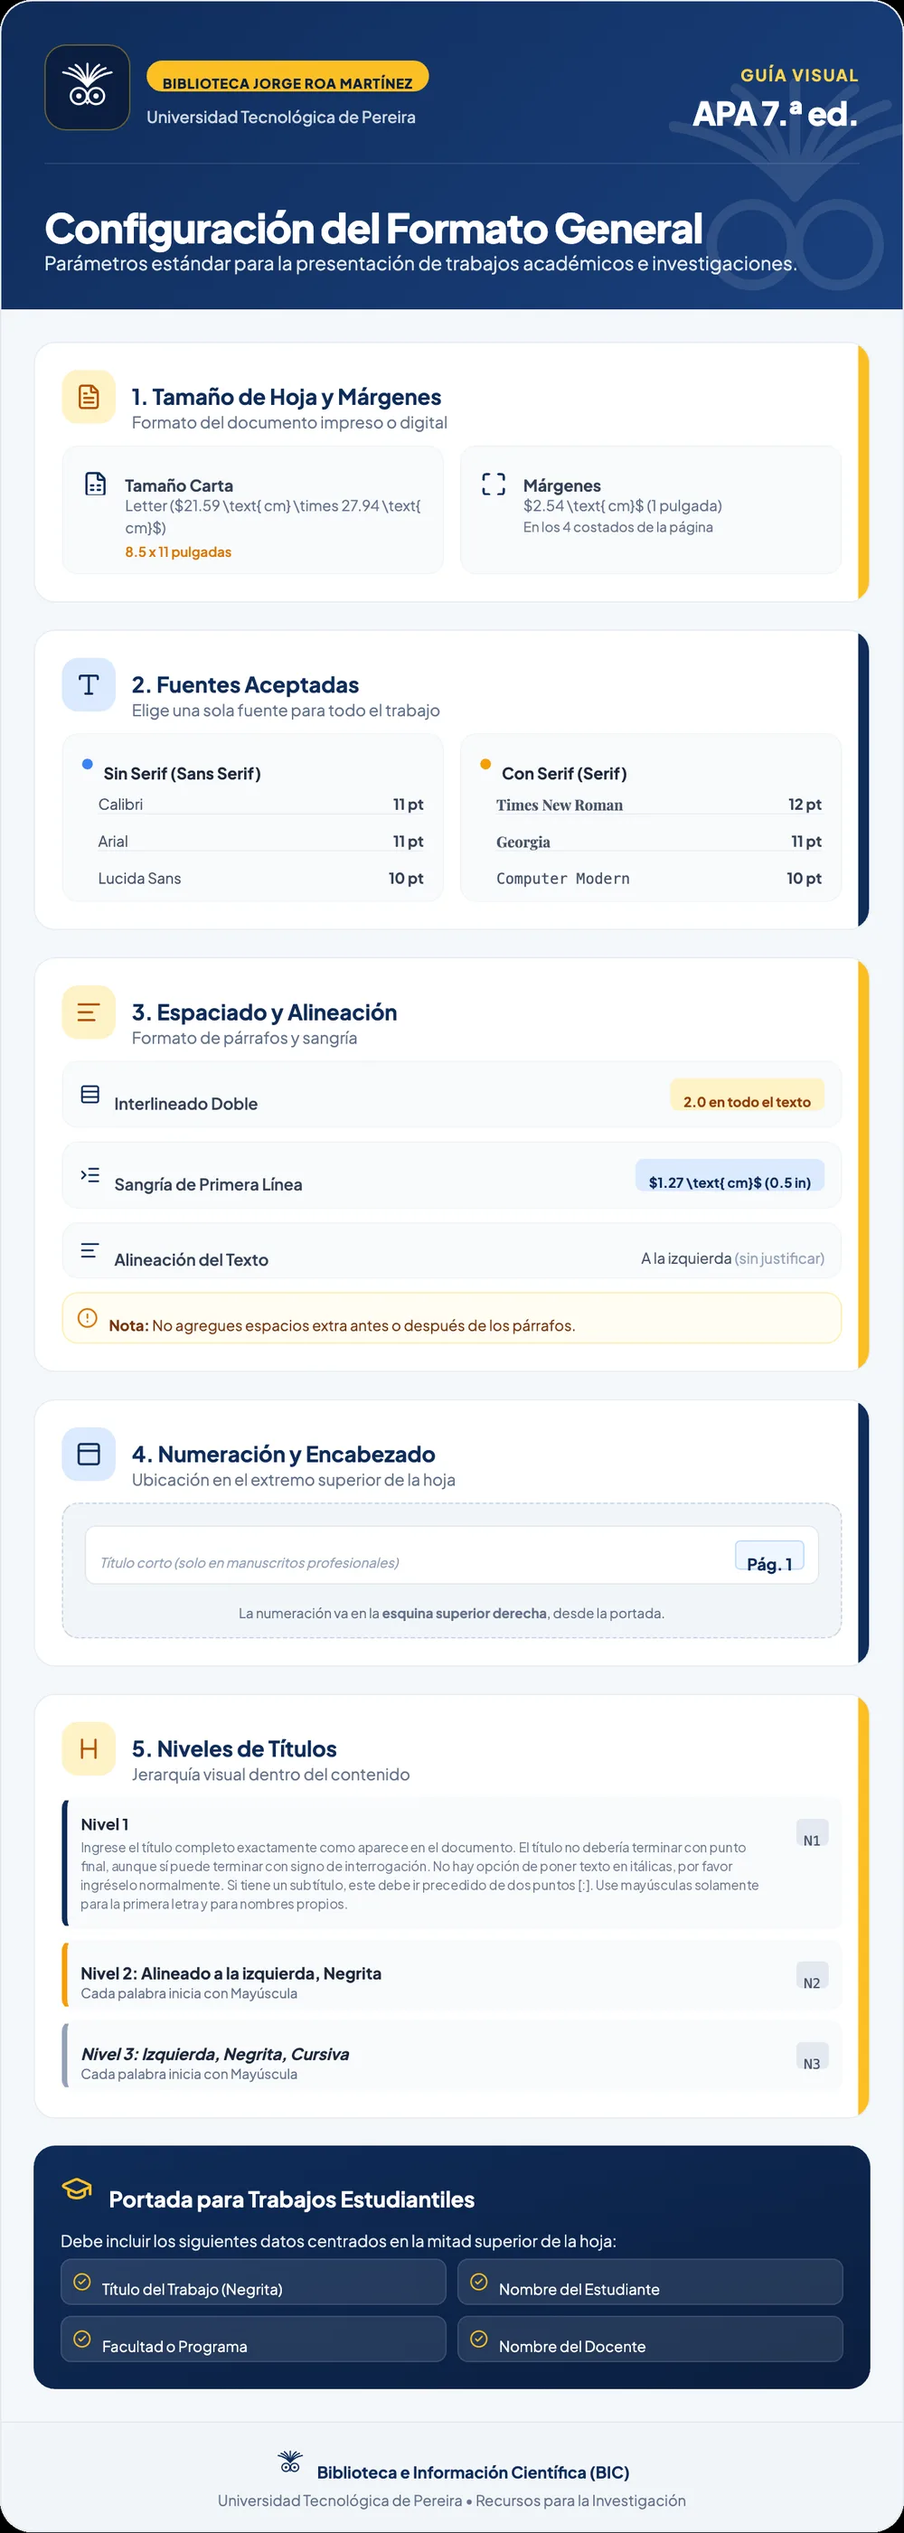
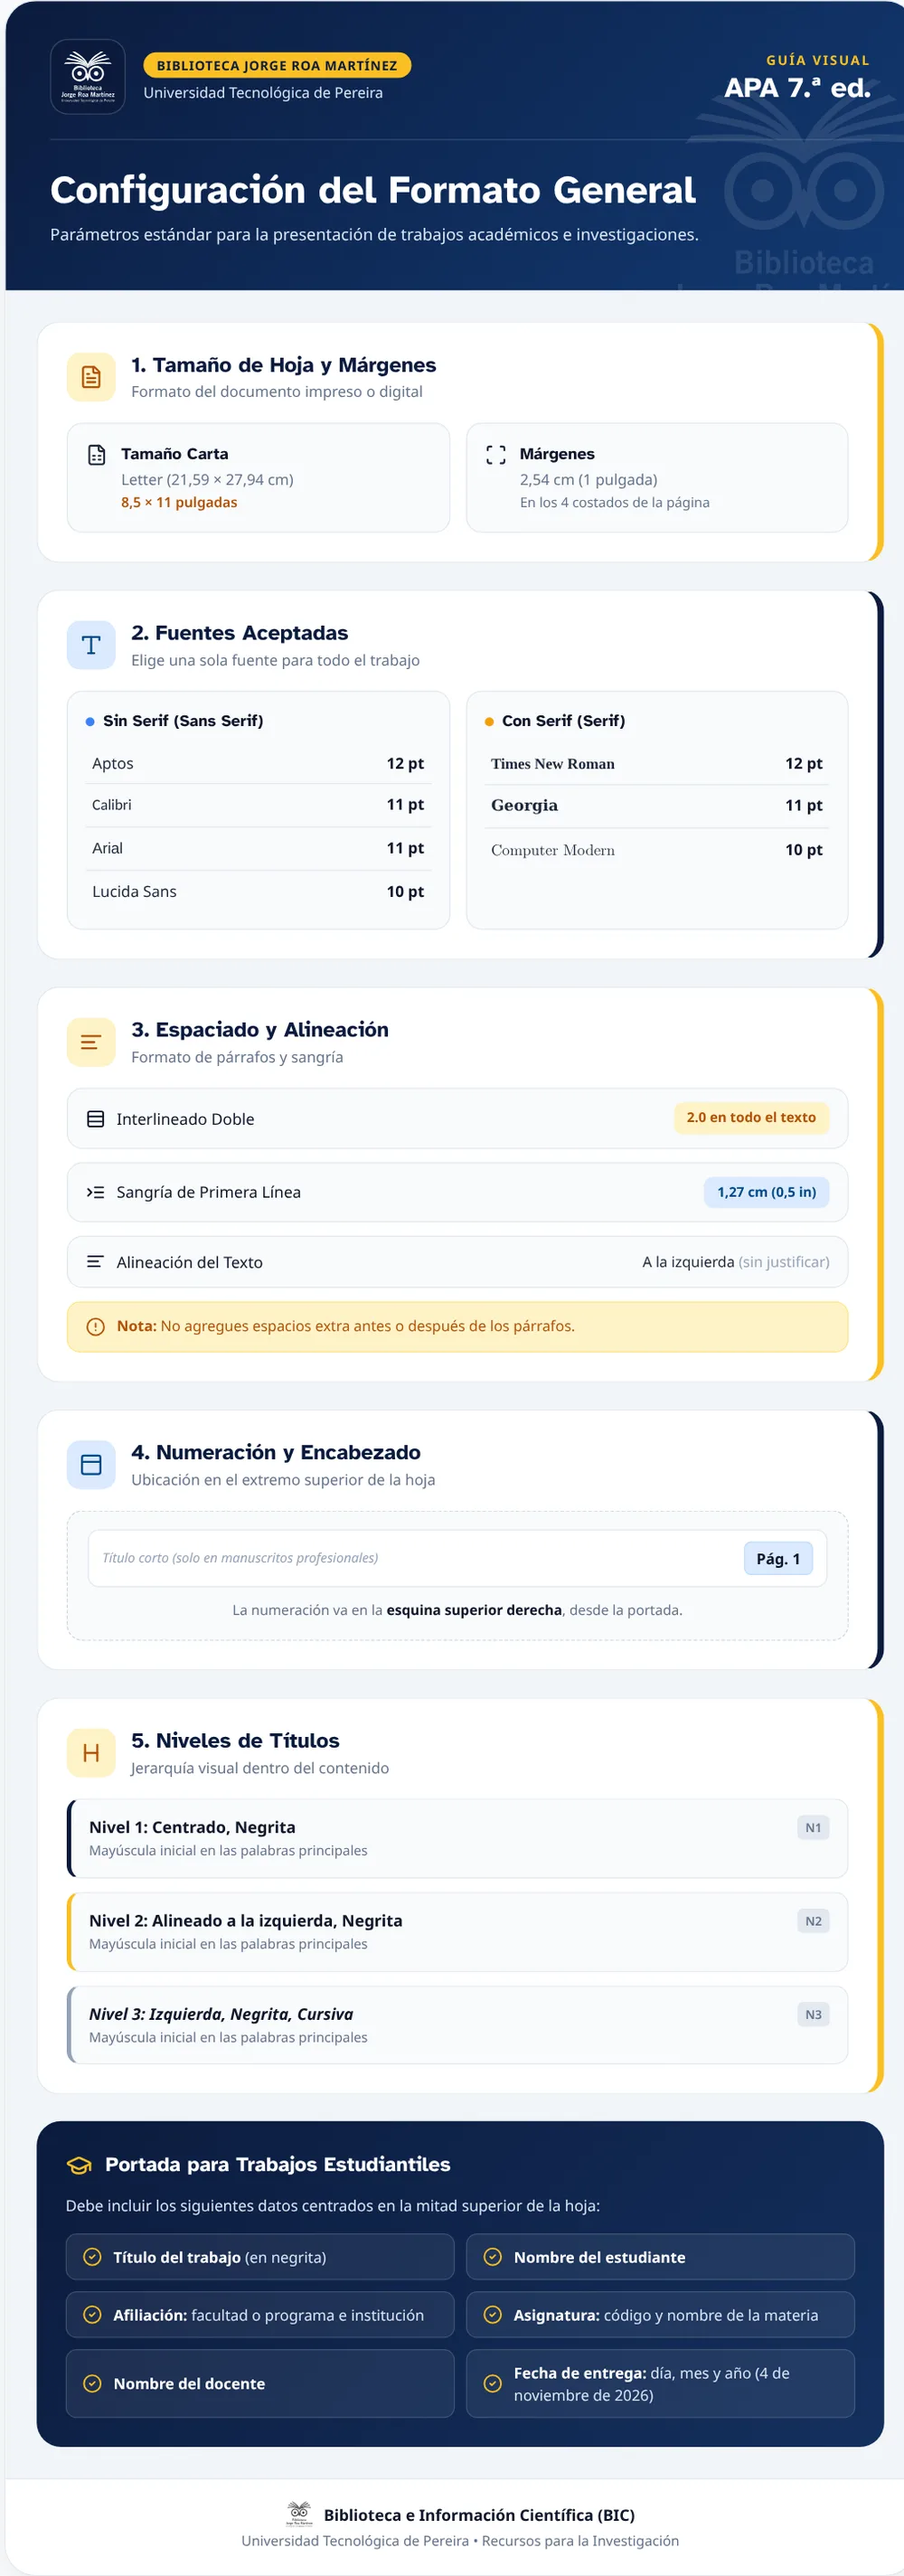
Colección APA: derrotero con infografías integradas e infografías alineadas con la guía
- Derrotero: Formato general y Tablas y figuras integradas en el bloque 1,
  Anatomía de las citas en el bloque 2, cada una con vista previa y
  «Ver completa»; portada con los seis elementos en el bloque 1.
- Formato general: portada con título, estudiante, afiliación, asignatura,
  docente y fecha de entrega; Aptos 12 pt entre las fuentes aceptadas;
  niveles de título con mayúscula inicial en las palabras principales.
- Tablas y figuras: títulos con mayúscula inicial en las palabras
  principales, regla de bordes y nota de derechos de autor como en la Guía
  de citas y referencias (cap. 3).

Claude-Session: https://claude.ai/code/session_01672zvz8tvadQGwHPtvfAYC

diff --git a/biblioteca-utp/coleccion-apa/derrotero/app.js b/biblioteca-utp/coleccion-apa/derrotero/app.js
@@ -9,7 +9,6 @@ function pintar(raiz){
   raiz.querySelectorAll("[data-fg]").forEach(el=>{el.style.color=el.dataset.fg});
   raiz.querySelectorAll("[data-flex]").forEach(el=>{el.style.flex=el.dataset.flex});
 }
-
 const MAT={
   info:{n:"Infografía Configuración del Formato General",c:"var(--m-info)"},
   anat:{n:"Infografía Anatomía de las citas",c:"var(--m-plant)"},
@@ -20,14 +19,14 @@ const MAT={
   tab:{n:"Infografía Tablas y figuras",c:"var(--m-none)"}
 };
 const B=[
- {t:"Formato del documento",short:"Formato",d:{120:15,90:10},main:"info",sup:["guia","tab"],img:true,
+ {t:"Formato del documento",short:"Formato",d:{120:15,90:10},main:"info",sup:["guia","tab"],img:["fmt","tab"],
   obj:"Dejar el documento configurado antes de hablar de citas.",
-  fac:["Abre con una bienvenida breve (2 o 3 minutos): por qué se cita y qué herramientas se llevarán.","Proyecta la infografía Configuración del Formato General y recorre sus 5 secciones: tamaño de hoja y márgenes, fuentes aceptadas, espaciado y alineación, numeración y encabezado, niveles de títulos.","Termina con el recuadro de portada para trabajos estudiantiles: título en negrita, nombre del estudiante, facultad o programa y nombre del docente.","Remite a la guía, capítulo 1 (pp. 3–4): excepciones a la fuente única y al interlineado doble, y orden de las partes del trabajo.","Menciona la infografía Tablas y figuras y el capítulo 3 de la guía (pp. 11–13); si el grupo trabaja con datos, muéstrala en 2 minutos."],
+  fac:["Abre con una bienvenida breve (2 o 3 minutos): por qué se cita y qué herramientas se llevarán.","Proyecta la infografía Configuración del Formato General (está debajo de este bloque) y recorre sus 5 secciones: tamaño de hoja y márgenes, fuentes aceptadas, espaciado y alineación, numeración y encabezado, niveles de títulos.","Termina con el recuadro de portada para trabajos estudiantiles: título en negrita, nombre del estudiante, afiliación (facultad o programa e institución), asignatura (código y nombre), nombre del docente y fecha de entrega (día, mes y año).","Remite a la guía, capítulo 1 (pp. 3–4): excepciones a la fuente única y al interlineado doble, y orden de las partes del trabajo.","Menciona la infografía Tablas y figuras (la segunda de este bloque) y el capítulo 3 de la guía (pp. 11–13); si el grupo trabaja con datos, muéstrala en 2 minutos."],
   est:["Abren la colección APA en su equipo.","Configuran su propio documento siguiendo la infografía."],
   tip:"Deja la infografía proyectada mientras configuran; el diagnóstico rápido (¿han tenido devoluciones por APA?) cabe en la bienvenida."},
- {t:"Anatomía de una cita",short:"Anatomía",d:{120:20,90:15},main:"anat",sup:["guia"],
+ {t:"Anatomía de una cita",short:"Anatomía",d:{120:20,90:15},main:"anat",sup:["guia"],img:"anat",
   obj:"Entender las partes de la cita y las formas de integrarla al texto.",
-  fac:["Proyecta la infografía Anatomía de las citas y explica sus 4 secciones en orden.","Anatomía: autor, año y localizador (página, párrafo o marca de tiempo).","Enfoques: cita narrativa y cita parentética.","Tipos según extensión y forma: textual corta, en bloque (40 palabras o más; con exactamente 40 ya va en bloque) y paráfrasis.","Reglas de oro y normativa UTP: «y» entre dos autores, también dentro del paréntesis, y verbo en plural con dos autores.","Apóyate en la guía, capítulo 2 (pp. 5–10): el esquema «La cita en tres preguntas» y la tabla de autores (instituciones con sigla, obra sin autor)."],
+  fac:["Proyecta la infografía Anatomía de las citas (está debajo de este bloque) y explica sus 4 secciones en orden.","Anatomía: autor, año y localizador (página, párrafo o marca de tiempo).","Enfoques: cita narrativa y cita parentética.","Tipos según extensión y forma: textual corta, en bloque (40 palabras o más; con exactamente 40 ya va en bloque) y paráfrasis.","Reglas de oro y normativa UTP: «y» entre dos autores, también dentro del paréntesis, y verbo en plural con dos autores.","Apóyate en la guía, capítulo 2 (pp. 5–10): el esquema «La cita en tres preguntas» y la tabla de autores (instituciones con sigla, obra sin autor)."],
   est:["Señalan las partes de la cita en un ejemplo proyectado.","Convierten una cita narrativa en parentética y al revés."],
   tip:"Usa un mismo ejemplo para las cuatro secciones; en el bloque 3 lo resolverás en el constructor."},
  {t:"Constructor de citas",short:"Constructor",d:{120:25,90:20},main:"cons",sup:["anat"],tool:true,
@@ -60,8 +59,13 @@ const PRE=[
  "Prepara los enlaces del kit para pegarlos en el chat o en el aula virtual.",
  "Pide a los estudiantes que traigan un trabajo propio con citas y referencias."
 ];
-const IMG="img/formato-general.webp";
-const FIG=`<figure class="fig" id="fig"><div class="fig-frame"><img src="${IMG}" alt="Infografía Configuración del Formato General APA 7: tamaño de hoja y márgenes, fuentes aceptadas, espaciado y alineación, numeración y encabezado, niveles de títulos y portada para trabajos estudiantiles" width="1000" height="2802" loading="lazy"></div><figcaption><span>Infografía para proyectar en este bloque</span><button type="button" class="btn" id="figbtn" aria-expanded="false">Ver completa</button></figcaption></figure>`;
+const IMGS={tab:"img/tablas-figuras.webp",fmt:"img/formato-general.webp",anat:"img/anatomia-citas.webp"};
+const FIGS={
+  tab:{h:2703,t:"Apoyo: infografía Tablas y figuras (capítulo 3 de la guía)",alt:"Infografía Presentación de Tablas y Figuras APA 7: anatomía de una tabla, componentes de una figura, reglas de mención en el texto y nota de derechos de autor"},
+  fmt:{h:2849,alt:"Infografía Configuración del Formato General APA 7: tamaño de hoja y márgenes, fuentes aceptadas, espaciado y alineación, numeración y encabezado, niveles de títulos y portada para trabajos estudiantiles"},
+  anat:{h:3178,alt:"Infografía Estructura y Anatomía de Citas APA 7: anatomía de la cita (autor, año, localizador), cita narrativa y parentética, tipos de cita según extensión y reglas de oro de la UTP"}
+};
+const figura=k=>`<figure class="fig" id="fig-${k}"><div class="fig-frame"><img src="${IMGS[k]}" alt="${FIGS[k].alt}" width="1000" height="${FIGS[k].h}" loading="lazy"></div><figcaption><span>${FIGS[k].t||"Infografía para proyectar en este bloque"}</span><button type="button" class="btn figbtn" data-fig="${k}" aria-expanded="false">Ver completa</button></figcaption></figure>`;
 /* Constructor de citas embebido: versión simplificada (3 pasos) */
 const CONS=(()=>{
   const node=document.getElementById("consTpl").content.firstElementChild.cloneNode(true);
@@ -162,7 +166,7 @@ function render(){
       <div class="mats">${b.main!=="none"?chip(b.main):""}${b.sup.map(chip).join("")}</div>
       <div class="cols"><div><h4>La facilitadora</h4><ul>${b.fac.map(x=>`<li>${x}</li>`).join("")}</ul></div>
       <div><h4>Los estudiantes</h4><ul>${b.est.map(x=>`<li>${x}</li>`).join("")}</ul></div></div>
-      <div class="tip"><b>Consejo:</b> ${b.tip}</div>${b.img?FIG:""}${b.tool?'<div class="cons-slot"></div>':""}</div></article>`;
+      <div class="tip"><b>Consejo:</b> ${b.tip}</div>${b.img?[].concat(b.img).map(figura).join(""):""}${b.tool?'<div class="cons-slot"></div>':""}</div></article>`;
   });
   document.getElementById("ribbon").innerHTML=rib;
   document.getElementById("blocks").innerHTML=blk;
@@ -193,4 +197,4 @@ document.querySelectorAll("[data-copy]").forEach(btn=>btn.addEventListener("clic
   try{navigator.clipboard.writeText(txt).then(ok,sel)}catch(e){sel()}
 }));
 render();
-document.addEventListener("click",e=>{if(e.target.id!=="figbtn")return;const f=document.getElementById("fig"),o=f.classList.toggle("open");e.target.setAttribute("aria-expanded",o);e.target.textContent=o?"Contraer":"Ver completa"});
+document.addEventListener("click",e=>{const bt=e.target.closest(".figbtn");if(!bt)return;const f=document.getElementById("fig-"+bt.dataset.fig),o=f.classList.toggle("open");bt.setAttribute("aria-expanded",o);bt.textContent=o?"Contraer":"Ver completa"});

diff --git a/biblioteca-utp/coleccion-apa/infografia-formato-general/index.html b/biblioteca-utp/coleccion-apa/infografia-formato-general/index.html
@@ -78,6 +78,7 @@
       <div class="fuentes">
         <h3><i class="pto pto-azul"></i>Sin Serif (Sans Serif)</h3>
         <ul>
+          <li><span class="f-aptos">Aptos</span><b>12 pt</b></li>
           <li><span class="f-calibri">Calibri</span><b>11 pt</b></li>
           <li><span class="f-arial">Arial</span><b>11 pt</b></li>
           <li><span class="f-lucida">Lucida Sans</span><b>10 pt</b></li>
@@ -140,15 +141,15 @@
     </div>
     <div class="pila">
       <div class="nivel n1">
-        <div><h3 class="n1-tit">Nivel 1: Centrado, Negrita</h3><p>Cada palabra inicia con Mayúscula</p></div>
+        <div><h3 class="n1-tit">Nivel 1: Centrado, Negrita</h3><p>Mayúscula inicial en las palabras principales</p></div>
         <span class="n-etq">N1</span>
       </div>
       <div class="nivel n2">
-        <div><h3>Nivel 2: Alineado a la izquierda, Negrita</h3><p>Cada palabra inicia con Mayúscula</p></div>
+        <div><h3>Nivel 2: Alineado a la izquierda, Negrita</h3><p>Mayúscula inicial en las palabras principales</p></div>
         <span class="n-etq">N2</span>
       </div>
       <div class="nivel n3">
-        <div><h3 class="cursiva">Nivel 3: Izquierda, Negrita, Cursiva</h3><p>Cada palabra inicia con Mayúscula</p></div>
+        <div><h3 class="cursiva">Nivel 3: Izquierda, Negrita, Cursiva</h3><p>Mayúscula inicial en las palabras principales</p></div>
         <span class="n-etq">N3</span>
       </div>
     </div>
@@ -159,10 +160,12 @@
     <h2><svg aria-hidden="true" viewBox="0 0 24 24"><path d="M21.42 10.92a1 1 0 0 0-.02-1.84L12.83 5.18a2 2 0 0 0-1.66 0L2.6 9.08a1 1 0 0 0 0 1.83l8.57 3.91a2 2 0 0 0 1.66 0z"/><path d="M22 10v6"/><path d="M6 12.5V16a6 3 0 0 0 12 0v-3.5"/></svg>Portada para Trabajos Estudiantiles</h2>
     <p>Debe incluir los siguientes datos centrados en la mitad superior de la hoja:</p>
     <ul class="portada-lista">
-      <li><svg aria-hidden="true" viewBox="0 0 24 24"><circle cx="12" cy="12" r="10"/><path d="m9 12 2 2 4-4"/></svg>Título del Trabajo (Negrita)</li>
-      <li><svg aria-hidden="true" viewBox="0 0 24 24"><circle cx="12" cy="12" r="10"/><path d="m9 12 2 2 4-4"/></svg>Nombre del Estudiante</li>
-      <li><svg aria-hidden="true" viewBox="0 0 24 24"><circle cx="12" cy="12" r="10"/><path d="m9 12 2 2 4-4"/></svg>Facultad o Programa</li>
-      <li><svg aria-hidden="true" viewBox="0 0 24 24"><circle cx="12" cy="12" r="10"/><path d="m9 12 2 2 4-4"/></svg>Nombre del Docente</li>
+      <li><svg aria-hidden="true" viewBox="0 0 24 24"><circle cx="12" cy="12" r="10"/><path d="m9 12 2 2 4-4"/></svg><span><b>Título del trabajo</b> (en negrita)</span></li>
+      <li><svg aria-hidden="true" viewBox="0 0 24 24"><circle cx="12" cy="12" r="10"/><path d="m9 12 2 2 4-4"/></svg><span><b>Nombre del estudiante</b></span></li>
+      <li><svg aria-hidden="true" viewBox="0 0 24 24"><circle cx="12" cy="12" r="10"/><path d="m9 12 2 2 4-4"/></svg><span><b>Afiliación:</b> facultad o programa e institución</span></li>
+      <li><svg aria-hidden="true" viewBox="0 0 24 24"><circle cx="12" cy="12" r="10"/><path d="m9 12 2 2 4-4"/></svg><span><b>Asignatura:</b> código y nombre de la materia</span></li>
+      <li><svg aria-hidden="true" viewBox="0 0 24 24"><circle cx="12" cy="12" r="10"/><path d="m9 12 2 2 4-4"/></svg><span><b>Nombre del docente</b></span></li>
+      <li><svg aria-hidden="true" viewBox="0 0 24 24"><circle cx="12" cy="12" r="10"/><path d="m9 12 2 2 4-4"/></svg><span><b>Fecha de entrega:</b> día, mes y año (4 de noviembre de 2026)</span></li>
     </ul>
   </section>
 

diff --git a/biblioteca-utp/coleccion-apa/infografia-tablas-figuras/index.html b/biblioteca-utp/coleccion-apa/infografia-tablas-figuras/index.html
@@ -54,8 +54,8 @@
         <span class="comp-pista">En negrita, alineado a la izquierda</span>
       </div>
       <div class="comp comp-oro">
-        <div><span class="comp-etq">2. Título de la tabla</span><p class="comp-val cursiva">Distribución de estudiantes por facultad en la UTP</p></div>
-        <span class="comp-pista">En cursiva, debajo del número</span>
+        <div><span class="comp-etq">2. Título de la tabla</span><p class="comp-val cursiva">Distribución de Estudiantes por Facultad en la UTP</p></div>
+        <span class="comp-pista">En cursiva, mayúscula inicial en palabras principales</span>
       </div>
       <div class="marco-tabla">
         <div class="marco-etq"><span>3. ENCABEZADOS</span><span>4. CUERPO (SIN BORDES VERTICALES)</span></div>
@@ -82,7 +82,7 @@
       <div><h2>2. Componentes de una Figura APA</h2><p>Gráficos, fotografías, diagramas, mapas e ilustraciones</p></div>
     </div>
     <div class="lamina">
-      <div><p class="fig-num">Figura 1</p><p class="fig-tit">Evolución de publicaciones científicas UTP (2018–2023)</p></div>
+      <div><p class="fig-num">Figura 1</p><p class="fig-tit">Evolución de Publicaciones Científicas UTP, 2018–2023</p></div>
       <div class="fig-area">
         <div class="barras" role="img" aria-label="Ejemplo de gráfico de barras ilustrativo, sin datos"><span class="b1"></span><span class="b2"></span><span class="b3"></span></div>
         <p class="fig-pie">[Imagen, gráfico o ilustración clara y de alta resolución]</p>
@@ -105,7 +105,7 @@
         <div><h3>Evita términos ambiguos de posición</h3><p>No utilices expresiones como <span class="mal">“en la tabla de arriba”</span> o <span class="mal">“la figura a continuación”</span>.</p></div>
       </div>
       <div class="regla"><svg aria-hidden="true" viewBox="0 0 24 24" class="oro"><rect width="7" height="7" x="3" y="3" rx="1"/><rect width="7" height="7" x="14" y="3" rx="1"/><rect width="7" height="7" x="14" y="14" rx="1"/><rect width="7" height="7" x="3" y="14" rx="1"/></svg>
-        <div><h3>Sin bordes verticales en tablas</h3><p>Solo usa bordes horizontales en la parte superior, en la inferior y al inicio de los datos.</p></div>
+        <div><h3>Sin bordes verticales en tablas</h3><p>Solo líneas horizontales: arriba y abajo de la tabla, debajo de los encabezados y sobre la fila de totales.</p></div>
       </div>
     </div>
   </section>
@@ -114,7 +114,7 @@
   <section class="derechos">
     <h2><svg aria-hidden="true" viewBox="0 0 24 24"><path d="M20 13c0 5-3.5 7.5-7.66 8.95a1 1 0 0 1-.67-.01C7.5 20.5 4 18 4 13V6a1 1 0 0 1 1-1c2 0 4.5-1.2 6.24-2.72a1.17 1.17 0 0 1 1.52 0C14.51 3.81 17 5 19 5a1 1 0 0 1 1 1z"/><path d="m9 12 2 2 4-4"/></svg>Derechos de Autor en Tablas y Figuras</h2>
     <p>Si reproduces una tabla o figura de otra fuente, incluye la atribución completa en la nota:</p>
-    <div class="atrib"><b>Estructura para la nota de atribución:</b><em>Nota.</em> Adaptado de “Título del artículo”, por A. A. Autor, 2021, <em>Nombre de la Revista</em>, <em>10</em>(2), p. 45. Copyright 2021 por Nombre del Titular.</div>
+    <div class="atrib"><b>Estructura para la nota de atribución:</b><em>Nota.</em> Adaptado de “Título del artículo”, por A. A. Autor, 2021, <em>Nombre de la Revista</em>, <em>10</em>(2), p. 45. Derechos de autor 2021 de Nombre del Titular.</div>
   </section>
 
 </main>

diff --git a/biblioteca-utp/coleccion-apa/infografia-formato-general/estilos.css b/biblioteca-utp/coleccion-apa/infografia-formato-general/estilos.css
@@ -85,6 +85,7 @@ svg{fill:none;stroke:currentColor;stroke-width:2;stroke-linecap:round;stroke-lin
 .fuentes li:last-child{border-bottom:0}
 .fuentes b{font-variant-numeric:tabular-nums;color:var(--tinta-fuerte);white-space:nowrap}
 /* Muestras en la propia fuente (instaladas en el equipo; no se descargan) */
+.f-aptos{font-family:Aptos,"Aptos Display",var(--fuente-texto)}
 .f-calibri{font-family:Calibri,Carlito,var(--fuente-texto)}
 .f-arial{font-family:Arial,"Liberation Sans",Helvetica,var(--fuente-texto)}
 .f-lucida{font-family:"Lucida Sans Unicode","Lucida Grande","Lucida Sans",var(--fuente-texto)}
@@ -129,6 +130,8 @@ svg{fill:none;stroke:currentColor;stroke-width:2;stroke-linecap:round;stroke-lin
 .portada>p{font-size:.86rem;color:#DBE5F5;margin-bottom:14px}
 .portada-lista{list-style:none;margin:0;padding:0;display:grid;grid-template-columns:repeat(2,minmax(0,1fr));gap:10px}
 .portada-lista li{display:flex;align-items:center;gap:10px;background:rgba(255,255,255,.07);border:1px solid rgba(255,255,255,.14);border-radius:10px;padding:10px 14px;font-size:.84rem}
+.portada-lista b{font-weight:700;color:#fff}
+.portada-lista span{color:#DBE5F5}
 .portada-lista svg{width:18px;height:18px;flex:0 0 auto;color:var(--oro-claro)}
 
 /* Pie */
